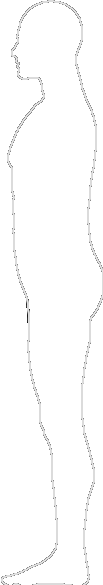
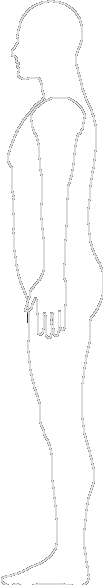
Add side view

Changed region(s): [[0.233, 0.1846, 0.8447, 0.5846], [0.3495, 0.1538, 0.7864, 0.1846]]

diff --git a/src/rigging.py b/src/rigging.py
@@ -13,11 +13,11 @@ class Bone():
         #
         # Diamond drawing
         #
-        #        + p0
-        #      /   \
-        #  pm +--+--+ pp
-        #     \   p /
-        #     \     /
+        #        + p0                  + pq
+        #      /   \                 p/
+        #  pm +--+--+ pp      pm +---+---+ pp
+        #     \   p /               / 
+        #     \     /              + pr
         #      \   /
         #      \   /
         #       \ /
@@ -58,29 +58,32 @@ class Bone():
 
         # express p0 according to p
         p0p = p0 - p
+        
         # rotate -pi/2   ->  [[0, -1], [1, 0]]
-        pp = np.array([-p0p[1], p0p[0], 0])
+        pp = np.array([-p0p[1], p0p[0], p0p[2]])
+        # rotate pi/2   ->  [[0, 1], [-1, 0]]
+        pm = np.array([p0p[1], -p0p[0], p0p[2]])
+
+        # the same for z-axis
+        pq = np.array([p0p[0], -p0p[2],  p0p[1]])
+        pr = np.array([p0p[0],  p0p[2], -p0p[1]])
+
         # move back pp to global frame
         pp = p + pp
-
-        ## From p get pm (on xy-plan)
-
-        # express p0 according to p
-        p0p = p0 - p
-        # rotate pi/2   ->  [[0, 1], [-1, 0]]
-        pm = np.array([p0p[1], -p0p[0], 0])
-        # move back pp to global frame
         pm = p + pm
+        pq = p + pq
+        pr = p + pr
 
         self.sBoneName = name
 
-        #                                  0      1      2     3      4
-        self.mRestPoseVertex = np.matrix([[p0[0], p1[0], p[0], pp[0], pm[0]],
-                                          [p0[1], p1[1], p[1], pp[1], pm[1]],  
-                                          [p0[2], p1[2], p[2], pp[2], pm[2]],
-                                          [    1,     1,    1,     1,     1]], 'float32')
+        #                                  0      1      2     3      4      5      6
+        self.mRestPoseVertex = np.matrix([[p0[0], p1[0], p[0], pp[0], pm[0], pq[0], pr[0]],
+                                          [p0[1], p1[1], p[1], pp[1], pm[1], pq[1], pr[1]],  
+                                          [p0[2], p1[2], p[2], pp[2], pm[2], pq[2], pr[2]],
+                                          [    1,     1,    1,     1,     1,     1,     1]], 'float32')
 
-        self.aDrawEdges = np.array([[0, 3], [0, 4], [3, 4], [4, 1], [3, 1]], 'int16')
+        self.aDrawEdges = np.array([[0, 3], [0, 4], [3, 4], [4, 1], [3, 1],
+                                    [0, 6], [0, 5], [6, 1], [5, 1], [5, 6]], 'int16')
 
         self.mPoseVertex = self.mGlobalTransformation * self.mRestPoseVertex
 
@@ -130,15 +133,29 @@ class Bone():
         self.mGlobalTransformation = mTransformation.copy()
         self.mPoseVertex = self.mGlobalTransformation * self.mRestPoseVertex
 
-    def getDrawLines(self):
+    def getDrawLinesInXYPlane(self):
 
         allLines = []
         for i in range(len(self.aDrawEdges)):
             iP1 = self.aDrawEdges[i][0]
             iP2 = self.aDrawEdges[i][1]
-
+            #                      X                         Y                         Z
             P1 = (self.mPoseVertex[0, iP1], self.mPoseVertex[1, iP1], self.mPoseVertex[2, iP1])
             P2 = (self.mPoseVertex[0, iP2], self.mPoseVertex[1, iP2], self.mPoseVertex[2, iP2])
+            aLine = (P1, P2)
+            allLines.append(aLine)
+
+        return allLines
+
+    def getDrawLinesInYZPlane(self):
+
+        allLines = []
+        for i in range(len(self.aDrawEdges)):
+            iP1 = self.aDrawEdges[i][0]
+            iP2 = self.aDrawEdges[i][1]
+            #                      Z                         Y                         X
+            P1 = (self.mPoseVertex[2, iP1], self.mPoseVertex[1, iP1], self.mPoseVertex[0, iP1])
+            P2 = (self.mPoseVertex[2, iP2], self.mPoseVertex[1, iP2], self.mPoseVertex[0, iP2])
             aLine = (P1, P2)
             allLines.append(aLine)
 

diff --git a/src/anivox.py b/src/anivox.py
@@ -53,30 +53,29 @@ class MainApp():
         with dpg.texture_registry():
             dpg.add_static_texture(width, height, data, tag='image_phan_side')
 
-        # # Test
-        # with dpg.handler_registry():
-        #     dpg.add_mouse_click_handler(callback=self.toto)
+        # Test
+        with dpg.handler_registry():
+            dpg.add_mouse_click_handler(callback=self.toto)
 
 
         
 
-    # def toto(self, sender, app_data):
-    #     x, y = dpg.get_mouse_pos(local=False)
-    #     px, py = dpg.get_item_rect_min('leftView')
-    #     print(x-px, y-py)
-    #     # print(x, y)
-    #     # print(px, py)
-    #     #print(dpg.get_mouse_pos(local=False))
-    #     #print(dpg.get_item_rect_max('leftView'))
+    def toto(self, sender, app_data):
+        x, y = dpg.get_mouse_pos(local=False)
+        px, py = dpg.get_item_rect_min('rightView')
+        print(x-px, y-py)
+        # print(x, y)
+        # print(px, py)
+        #print(dpg.get_mouse_pos(local=False))
+        #print(dpg.get_item_rect_max('leftView'))
 
     #     self.buildArms()
 
     def buildArms(self):
-        limRot = (360, 360, 360)
 
         bonesControlPoints = np.array([[0, 180, 165, 140, 135],
                                        [0, 215, 360, 490, 580],
-                                       [0,   0,   0,   0,   0]])
+                                       [0, 295, 290, 290, 285]])
         bonesNames = ('org', 'rightArm', 'rightForearm', 'rightHand')
         bonesColors = (self.PBlue, self.PGreen, self.PYellow, self.PGold)
 
@@ -87,18 +86,34 @@ class MainApp():
     def drawSkeleton(self, skel):
         
         try:
-            dpg.delete_item('bonesLayer')
+            dpg.delete_item('bonesLayerLeftView')
         except:
             # The first time this layer doesn't exist, pass
             pass
         
-        with dpg.draw_layer(parent='leftView', tag='bonesLayer'):
+        with dpg.draw_layer(parent='leftView', tag='bonesLayerLeftView'):
 
             nBones = skel.getNbBones()
             for i in range(nBones):
                 aBone = skel.getBone(i)
 
-                allLines = aBone.getDrawLines()
+                allLines = aBone.getDrawLinesInXYPlane()
+                for aLine in allLines:
+                    dpg.draw_line(aLine[0], aLine[1], color=aBone.getDrawColor(), thickness=2)
+
+        try:
+            dpg.delete_item('bonesLayerRightView')
+        except:
+            # The first time this layer doesn't exist, pass
+            pass
+        
+        with dpg.draw_layer(parent='rightView', tag='bonesLayerRightView'):
+
+            nBones = skel.getNbBones()
+            for i in range(nBones):
+                aBone = skel.getBone(i)
+
+                allLines = aBone.getDrawLinesInYZPlane()
                 for aLine in allLines:
                     dpg.draw_line(aLine[0], aLine[1], color=aBone.getDrawColor(), thickness=2)
 
